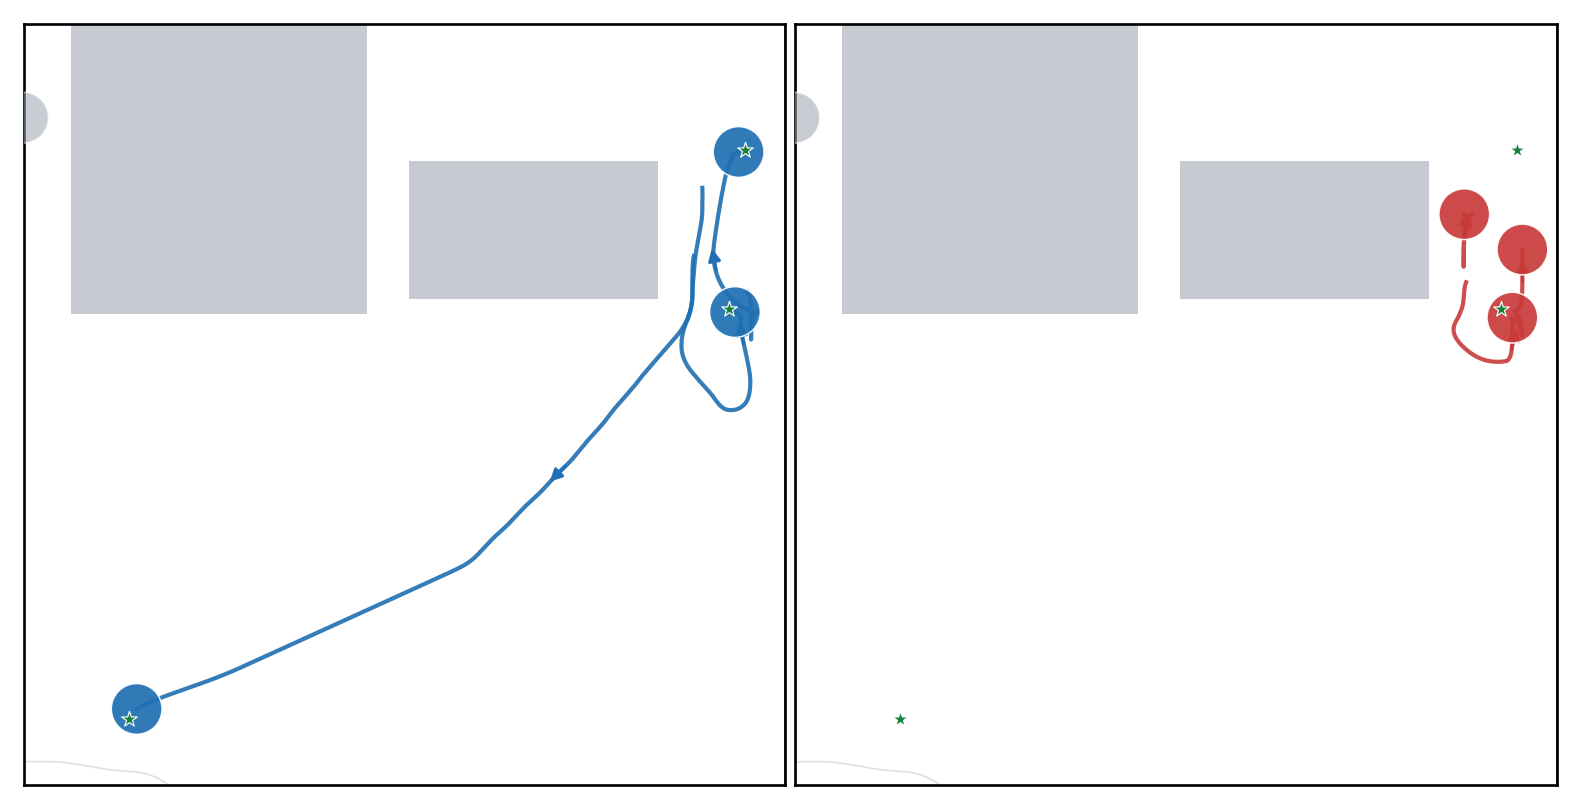
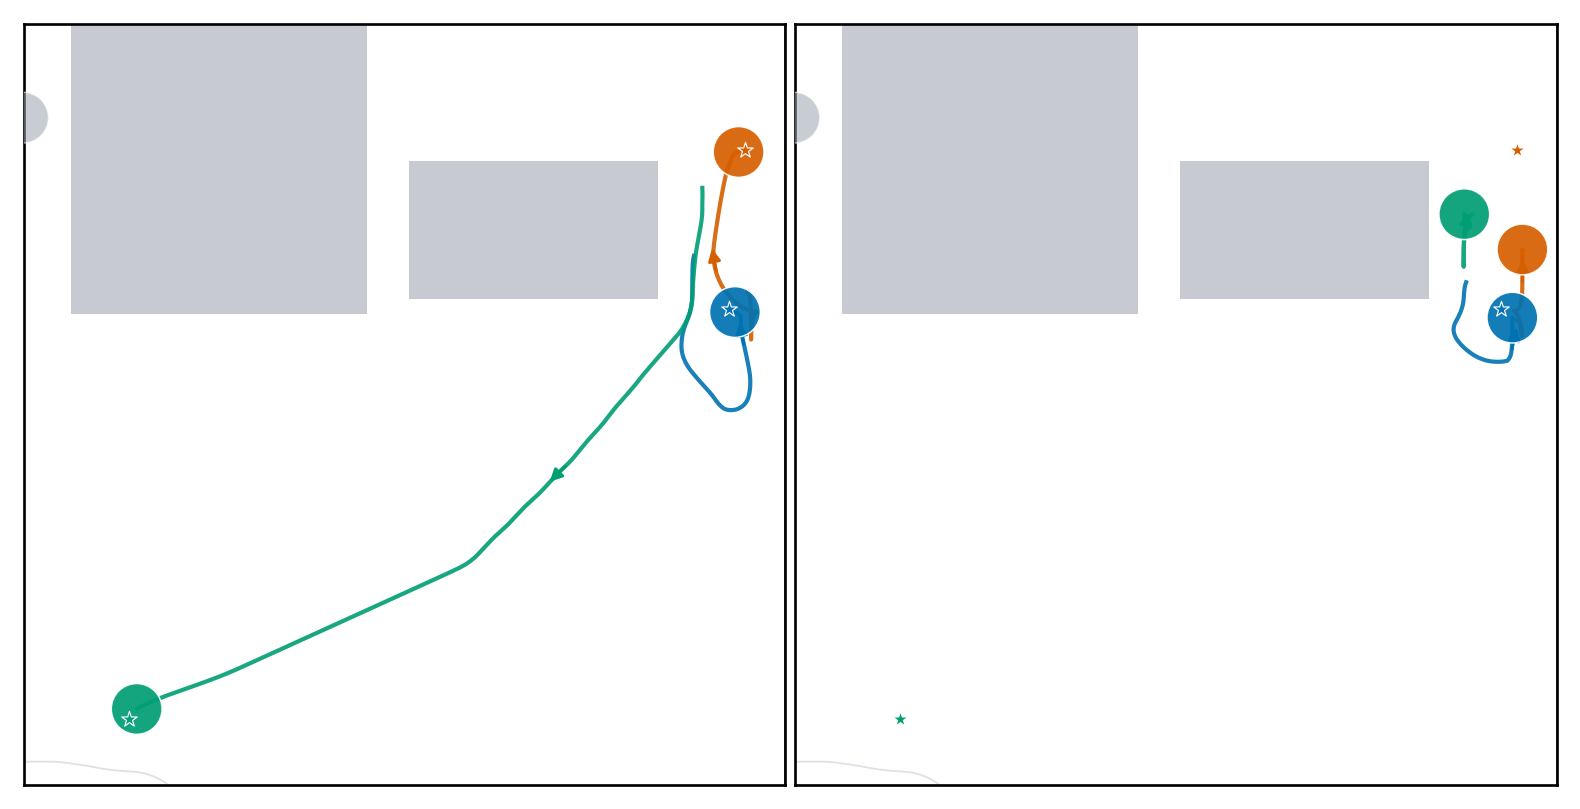
Update project visuals and add passage demos

diff --git a/index.html b/index.html
@@ -152,11 +152,11 @@
           </p>
         </div>
         <div class="column is-6">
-          <img src="static/images/clear_component_closeup.png" alt="Rigid component translation">
+          <img src="static/images/clear_component_closeup.png" alt="Robot-colored rigid component comparison">
           <p class="is-size-6 has-text-grey has-text-centered">
             Same Rect15 instance: rigid component translation (left) carries a wall-bridged
             group through the local boundary passage; without it (right) the group stays
-            clustered until timeout.
+            clustered until timeout. Blue, orange, and green track the same robots in both panels.
           </p>
         </div>
       </div>
@@ -176,6 +176,38 @@
           <li>Component-parallel critical path &le; <b>22.8 ms</b> worst-seed p95 at N&thinsp;=&thinsp;80, inside the common 30 ms control period.</li>
         </ul>
       </div>
+    </div>
+  </section>
+
+  <!-- ===================== Shared-resource GIFs ===================== -->
+  <section class="section pt-0">
+    <div class="container is-max-desktop">
+      <h2 class="title is-3 has-text-centered">Shared-resource passage</h2>
+      <div class="columns is-centered resource-demos">
+        <div class="column is-6">
+          <figure>
+            <img
+              src="static/images/clear_doorway_n16_seed0.gif"
+              alt="Animated CLEAR execution through a doorway with 16 robots">
+            <figcaption class="is-size-6 has-text-grey has-text-centered">
+              Doorway, N&thinsp;=&thinsp;16: 20/20 audited completions and normalized flow 1.006.
+            </figcaption>
+          </figure>
+        </div>
+        <div class="column is-6">
+          <figure>
+            <img
+              src="static/images/clear_intersection_n16_seed0.gif"
+              alt="Animated CLEAR execution through a four-way intersection with 16 robots">
+            <figcaption class="is-size-6 has-text-grey has-text-centered">
+              Four-way Intersection, N&thinsp;=&thinsp;16: 20/20 audited completions and normalized flow 0.918.
+            </figcaption>
+          </figure>
+        </div>
+      </div>
+      <p class="has-text-centered is-size-6 has-text-grey mt-3">
+        Both animations use the same 30&thinsp;ms bounded-unicycle CLEAR controller as the reported evaluation.
+      </p>
     </div>
   </section>
 

diff --git a/static/css/index.css b/static/css/index.css
@@ -253,6 +253,25 @@ body {
   box-shadow: var(--shadow-lg);
 }
 
+.resource-demos figure {
+  margin: 0;
+}
+
+.resource-demos img {
+  display: block;
+  width: 100%;
+  aspect-ratio: 1 / 1;
+  object-fit: contain;
+  background: #ffffff;
+  border: 1px solid var(--border-color);
+  border-radius: 8px;
+}
+
+.resource-demos figcaption {
+  min-height: 3rem;
+  margin-top: 0.75rem;
+}
+
 .results-carousel {
   overflow: hidden;
   padding: 1rem 0;
@@ -761,6 +780,5 @@ a:focus {
     box-shadow: none !important;
   }
 }
-
 
 

diff --git a/artifact/make_paper_figures.py b/artifact/make_paper_figures.py
@@ -3,6 +3,7 @@
 from __future__ import annotations
 
 import argparse
+from dataclasses import replace
 import json
 from pathlib import Path
 
@@ -16,6 +17,7 @@ from clear_nav import (
     Protocol,
     REPORTED_CLEAR_CONTROLLER,
     SMGGeometry,
+    VanillaCBFController,
     make_scenario,
     make_smg_scenario,
 )
@@ -453,27 +455,75 @@ def make_internal_closeups(output: Path) -> None:
         "xlim": (2.0, 8.0),
         "ylim": (-6.0, 0.0),
         "highlight": (4, 6, 11),
+        "highlight_colors": {
+            4: "#0072B2",
+            6: "#D55E00",
+            11: "#009E73",
+        },
     }
     panels = [
         {
             **common,
+            "variant": "clear",
             "trace": Path("results/internal_30ms_diagnostics_clear")
             / "rect15_n20_seed16_trace.npz",
-            "color": "#1F6FB2",
         },
         {
             **common,
+            "variant": "vanilla-cbf-qp",
             "trace": Path("results/internal_30ms_diagnostics_vanilla")
             / "rect15_n20_seed16_trace.npz",
-            "color": "#C83A3A",
         },
         {
             **common,
+            "variant": "component-free",
             "trace": Path("results/internal_30ms_diagnostics_component_free")
             / "rect15_n20_seed16_trace.npz",
-            "color": "#C83A3A",
         },
     ]
+
+    def ensure_trace(panel: dict) -> None:
+        trace_path = panel["trace"]
+        if trace_path.exists():
+            return
+        scenario = make_unicycle_scenario(
+            panel["family"],
+            panel["count"],
+            panel["seed"],
+            protocol,
+            unicycle,
+        )
+        config = clear_config()
+        controller = None
+        if panel["variant"] != "clear":
+            config = replace(
+                config,
+                cluster_escape_gain=0.0,
+                cluster_escape_hysteresis=False,
+            )
+        if panel["variant"] == "vanilla-cbf-qp":
+            controller = VanillaCBFController(
+                inflated_unicycle_protocol(protocol, unicycle.lookahead),
+                config,
+            )
+        rollout = simulate_unicycle(
+            scenario,
+            config,
+            unicycle,
+            initial_headings=np.zeros(panel["count"]),
+            record_stride=1,
+            guidance_mode="cost",
+            controller=controller,
+        )
+        trace_path.parent.mkdir(parents=True, exist_ok=True)
+        np.savez_compressed(
+            trace_path,
+            times=rollout.times,
+            positions=rollout.trajectory,
+            headings=rollout.headings,
+            goals=scenario.goals,
+        )
+        print(f"wrote {trace_path}")
 
     def draw_panels(selected_panels: list[dict], filename: str) -> None:
         figure, axes = plt.subplots(
@@ -483,6 +533,7 @@ def make_internal_closeups(output: Path) -> None:
             squeeze=False,
         )
         for ax, panel in zip(axes[0], selected_panels):
+            ensure_trace(panel)
             scenario = make_unicycle_scenario(
                 panel["family"],
                 panel["count"],
@@ -503,10 +554,11 @@ def make_internal_closeups(output: Path) -> None:
             highlighted = set(panel["highlight"])
             for robot in range(panel["count"]):
                 selected = robot in highlighted
+                color = panel["highlight_colors"].get(robot, "#AAB4C0")
                 ax.plot(
                     positions[begin : end + 1 : 2, robot, 0],
                     positions[begin : end + 1 : 2, robot, 1],
-                    color=panel["color"] if selected else "#AAB4C0",
+                    color=color,
                     lw=1.25 if selected else 0.55,
                     alpha=0.90 if selected else 0.38,
                     zorder=3 if selected else 2,
@@ -514,6 +566,7 @@ def make_internal_closeups(output: Path) -> None:
             arrow_index = int(np.argmin(np.abs(times - panel["arrow_time"])))
             future_index = min(arrow_index + 7, len(times) - 1)
             for robot in sorted(highlighted):
+                color = panel["highlight_colors"][robot]
                 direction = positions[future_index, robot] - positions[arrow_index, robot]
                 norm = float(np.linalg.norm(direction))
                 if norm <= 1.0e-5:
@@ -526,34 +579,35 @@ def make_internal_closeups(output: Path) -> None:
                         arrowstyle="-|>",
                         mutation_scale=7.5,
                         lw=0.9,
-                        color=panel["color"],
+                        color=color,
                         zorder=5,
                     )
                 )
             for robot in range(panel["count"]):
                 selected = robot in highlighted
+                color = panel["highlight_colors"].get(robot, "#9AA4B0")
                 ax.add_patch(
                     CirclePatch(
                         positions[end, robot],
                         protocol.body_radius,
-                        facecolor=panel["color"] if selected else "#9AA4B0",
+                        facecolor=color,
                         edgecolor="white",
                         lw=0.45,
                         alpha=0.92 if selected else 0.55,
                         zorder=6 if selected else 4,
                     )
                 )
-            selected = np.array(sorted(highlighted), dtype=int)
-            ax.scatter(
-                goals[selected, 0],
-                goals[selected, 1],
-                s=24,
-                marker="*",
-                color="#16803C",
-                edgecolor="white",
-                linewidth=0.35,
-                zorder=7,
-            )
+            for robot in sorted(highlighted):
+                ax.scatter(
+                    goals[robot, 0],
+                    goals[robot, 1],
+                    s=24,
+                    marker="*",
+                    color=panel["highlight_colors"][robot],
+                    edgecolor="white",
+                    linewidth=0.35,
+                    zorder=7,
+                )
             ax.set_xlim(*panel["xlim"])
             ax.set_ylim(*panel["ylim"])
             ax.set_aspect("equal")
@@ -565,6 +619,10 @@ def make_internal_closeups(output: Path) -> None:
     draw_panels([panels[0]], "clear_internal_full_closeup.png")
     draw_panels([panels[1]], "clear_internal_vanilla_closeup.png")
     draw_panels([panels[2]], "clear_internal_component_free_closeup.png")
+    draw_panels(
+        [panels[0], panels[2]],
+        "clear_component_closeup.png",
+    )
 
 
 def make_results(output: Path) -> None:

diff --git a/artifact/make_unicycle_paper_gifs.py b/artifact/make_unicycle_paper_gifs.py
@@ -32,6 +32,12 @@ PAIRED_CASES = (
 def parse_args() -> argparse.Namespace:
     parser = argparse.ArgumentParser()
     parser.add_argument(
+        "--groups",
+        nargs="+",
+        choices=("main", "paired", "smg", "bridge"),
+        default=("main", "paired", "smg", "bridge"),
+    )
+    parser.add_argument(
         "--output-dir",
         type=Path,
         default=Path("results/paper_gifs"),
@@ -39,6 +45,7 @@ def parse_args() -> argparse.Namespace:
     parser.add_argument("--max-frames", type=int, default=160)
     parser.add_argument("--fps", type=int, default=15)
     parser.add_argument("--dpi", type=int, default=90)
+    parser.add_argument("--smg-robots", nargs="+", type=int, default=(8, 16))
     return parser.parse_args()
 
 
@@ -157,7 +164,7 @@ def make_smg(args: argparse.Namespace, records: list[dict]) -> None:
         intersection_corridor_width=2.4,
     )
     for family in ("doorway", "intersection"):
-        for count in (8, 16):
+        for count in args.smg_robots:
             scenario = make_smg_scenario(
                 family,
                 count,
@@ -302,10 +309,14 @@ def main() -> None:
     args = parse_args()
     args.output_dir.mkdir(parents=True, exist_ok=True)
     records: list[dict] = []
-    make_main(args, records)
-    make_paired(args, records)
-    make_smg(args, records)
-    make_bridge(args, records)
+    if "main" in args.groups:
+        make_main(args, records)
+    if "paired" in args.groups:
+        make_paired(args, records)
+    if "smg" in args.groups:
+        make_smg(args, records)
+    if "bridge" in args.groups:
+        make_bridge(args, records)
     write_index(args, records)
     print(f"wrote {len(records)} unicycle GIFs to {args.output_dir}")
 
